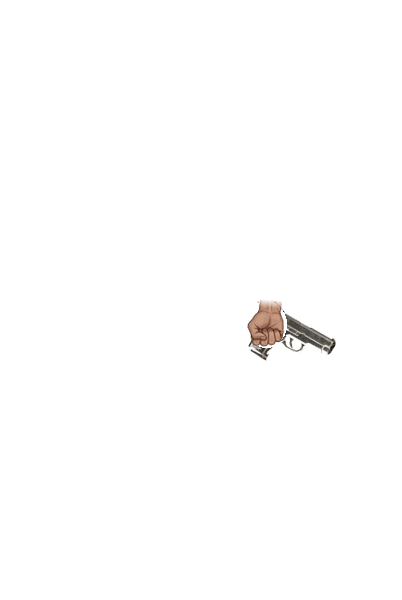
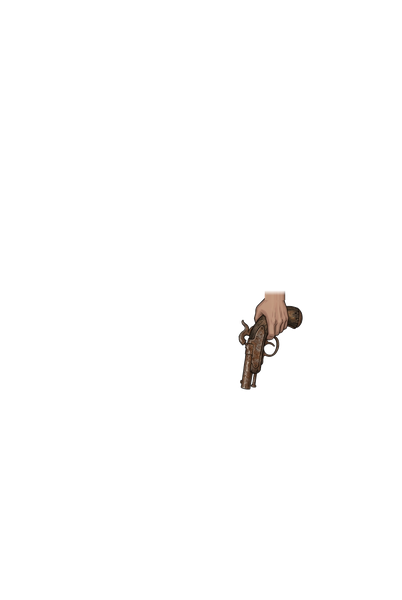
Award rusty pistol on seventh login day

Changed region(s): [[0.597, 0.48, 0.8358, 0.66]]

diff --git a/src/game/reducer.ts b/src/game/reducer.ts
@@ -30,6 +30,8 @@ import { CLAN_CREATE_GOLD,
   WEAPON_MAX_LEVEL,
   DAILY_QUESTS,
   normalizeWeapon,
+  STARTER_WEAPON,
+  getWeapon,
   DEFAULT_STATS,
 } from './constants';
 import {
@@ -150,9 +152,22 @@ const computeClanWarGold = (win: boolean, streak: number): number => {
   return CLAN_WAR_GOLD_LOSS;
 };
 
+// One-time migration: remove the former starter and replace it with knuckles.
+export const migrateStarterWeapon = (state: GameState): GameState => {
+  if (state.rustyPistolRewardVersion === 1) return state;
+  const stored = Array.isArray(state.storedWeapons) ? state.storedWeapons.filter(Boolean) : [];
+  const equippedOld = state.weapon?.id === 'rusty_pistol' || (!state.weapon?.id && state.weapon?.name === 'Ржавый пистолет');
+  const storedOld = stored.some((weapon) => weapon.id === 'rusty_pistol');
+  const knuckles = stored.find((weapon) => weapon.id === 'shop_knuckles');
+  const remaining = stored.filter((weapon) => weapon.id !== 'rusty_pistol' && (!equippedOld || weapon.id !== 'shop_knuckles'));
+  if (!equippedOld && storedOld && state.weapon?.id !== 'shop_knuckles' && !knuckles) remaining.push({ ...STARTER_WEAPON, mods: [] });
+  return { ...state, weapon: equippedOld ? (knuckles ?? { ...STARTER_WEAPON, mods: [] }) : state.weapon,
+    storedWeapons: remaining, rustyPistolRewardVersion: 1 };
+};
+
 export const hydrateState = (state: GameState): GameState => {
   // Normalize old saves that may lack new fields
-  let normalized: GameState = { ...normalizeMapRaids(state), casino: normalizeCasino(state.casino), bossKeys: normalizeBossKeys(state.bossKeys) };
+  let normalized: GameState = { ...normalizeMapRaids(migrateStarterWeapon(state)), casino: normalizeCasino(state.casino), bossKeys: normalizeBossKeys(state.bossKeys) };
   
   if (!normalized.inventory) {
     normalized = { ...normalized, inventory: [] };
@@ -325,7 +340,7 @@ export const hydrateState = (state: GameState): GameState => {
 
 export const gameReducer = (state: GameState, action: GameAction): GameState => {
   if (action.type !== 'HYDRATE_STATE') {
-    state = normalizeMapRaids(state);
+    state = normalizeMapRaids(migrateStarterWeapon(state));
     // Server snapshots from before the new skills also pass through this path.
     if (!state.profileSkills || state.profileSkills.weapon === undefined || state.profileSkills.heal === undefined) {
       state = { ...state, profileSkills: normalizeProfileSkills(state.profileSkills) };
@@ -832,6 +847,8 @@ export const gameReducer = (state: GameState, action: GameAction): GameState => 
       const status = loginRewardStatus(loginRewards);
       if (!status.available) return msg(state, 'Награда за сегодняшний вход уже получена.');
       const reward = LOGIN_REWARDS[status.day - 1];
+      const givePistol = status.day === 7 && state.weapon.id !== 'rusty_pistol' && !state.storedWeapons.some((weapon) => weapon.id === 'rusty_pistol');
+      const pistol = getWeapon('rusty_pistol')!;
       return {
         ...state,
         bullets: state.bullets + reward.bullets,
@@ -839,7 +856,8 @@ export const gameReducer = (state: GameState, action: GameAction): GameState => 
         matches: state.matches + reward.matches,
         medkits: state.medkits + reward.medkits,
         loginRewards: { lastClaimDate: status.today, streak: status.day },
-        lastMessage: `Награда за вход · день ${status.day}: +${reward.bullets} патронов${reward.gold ? `, +${reward.gold} припасов` : ''}${reward.matches ? `, +${reward.matches} спичек` : ''}${reward.medkits ? `, +${reward.medkits} аптечек` : ''}.`,
+        storedWeapons: givePistol ? [...state.storedWeapons, { ...pistol, mods: [] }] : state.storedWeapons,
+        lastMessage: `Награда за вход · день ${status.day}: +${reward.bullets} патронов${reward.gold ? `, +${reward.gold} припасов` : ''}${reward.matches ? `, +${reward.matches} спичек` : ''}${reward.medkits ? `, +${reward.medkits} аптечек` : ''}${givePistol ? ', ржавый пистолет' : ''}.`,
       };
     }
     case 'CLAIM_DAILY_QUEST_BONUS': {

diff --git a/backend/src/routes/progress.ts b/backend/src/routes/progress.ts
@@ -2,7 +2,7 @@ import { Router } from 'express';
 import { Prisma } from '@prisma/client';
 import { prisma } from '../prisma.js';
 import { requireVkUser } from '../vkAuth.js';
-import { applyDailyReset, createInitialState, normalizeMapRaids } from '../generated/game.js';
+import { applyDailyReset, createInitialState, normalizeMapRaids, migrateStarterWeapon } from '../generated/game.js';
 import { advanceCombat, applyCombatAction } from '../progressCombat.js';
 import { restoreEnergy } from '../progressEnergy.js';
 import { parseProgressAction } from '../progressAction.js';
@@ -41,7 +41,7 @@ progressRouter.get('/', async (_req, res) => {
     if (!coopEnabled) {
       if (hasCoopBattle(progress.state as Record<string, unknown>)) throw new CoopDisabled();
       const regenerated = restoreEnergy(progress.state as Record<string, unknown>, progress.energyUpdatedAt, new Date());
-      return res.json({ state: advanceCombat(normalizeMapRaids(regenerated.state), Date.now()), revision: progress.revision });
+      return res.json({ state: advanceCombat(normalizeMapRaids(migrateStarterWeapon(regenerated.state)), Date.now()), revision: progress.revision });
     }
     const snapshot = await prisma.$transaction(async (tx) => {
       const locked = await lockProgress(tx, vkId);
@@ -50,7 +50,7 @@ progressRouter.get('/', async (_req, res) => {
       await syncCoopBattle(tx, locked.state, vkId, now);
       const claimed = await claimCoopRewards(tx, vkId);
       const refreshed = restoreEnergy(claimed.state, locked.energyUpdatedAt, new Date(now));
-      const state = await syncCoopBattle(tx, advanceCombat(normalizeMapRaids(refreshed.state), now), vkId, now);
+      const state = await syncCoopBattle(tx, advanceCombat(normalizeMapRaids(migrateStarterWeapon(refreshed.state)), now), vkId, now);
       return { state, revision: claimed.revision };
     });
     return res.json(snapshot);
@@ -76,7 +76,7 @@ progressRouter.post('/action', async (req, res) => {
         if (current.revision !== revision) throw new ProgressConflict();
         const now = new Date();
         const regenerated = restoreEnergy(current.state, current.energyUpdatedAt, now);
-        const refreshed = applyDailyReset(regenerated.state);
+        const refreshed = applyDailyReset(migrateStarterWeapon(regenerated.state));
         const state = await applyCoopProgressAction(tx, refreshed, action, vkId, revision, now.getTime());
         await tx.$executeRaw`
           UPDATE "PlayerProgress" SET "state" = ${JSON.stringify(state)}::jsonb,
@@ -95,7 +95,7 @@ progressRouter.post('/action', async (req, res) => {
     if (current.revision !== revision) return res.status(409).json({ error: 'Сохранение изменилось. Загрузите его заново.' });
     const now = new Date();
     const regenerated = restoreEnergy(current.state as Record<string, unknown>, current.energyUpdatedAt, now);
-    const refreshed = applyDailyReset(regenerated.state);
+    const refreshed = applyDailyReset(migrateStarterWeapon(regenerated.state));
     const state = applyCombatAction(refreshed, action, now.getTime());
     const updated = await prisma.playerProgress.updateMany({
       where: { vkId, revision },

diff --git a/src/panels/LoginReward.tsx b/src/panels/LoginReward.tsx
@@ -22,6 +22,7 @@ export const LoginReward = ({ onClose }: { onClose: () => void }) => {
       return <article key={day} className={`${styles.day} ${current ? styles.current : ''} ${claimed ? styles.claimed : ''}`}>
         <small>ДЕНЬ {day}</small><strong>{claimed ? '✓' : day === 7 ? '🎁' : '📦'}</strong>
         <span><ResourceIcon name="bullets" /> {reward.bullets}</span>{reward.gold > 0 && <span><ResourceIcon name="supplies" /> {reward.gold}</span>}{reward.matches > 0 && <span><ResourceIcon name="matches" /> {reward.matches}</span>}{reward.medkits > 0 && <span><ResourceIcon name="medkits" /> {reward.medkits}</span>}
+        {day === 7 && <span>🔫 Ржавый пистолет</span>}
         {current && <em>{status.available ? 'СЕГОДНЯ' : 'ПОЛУЧЕНО'}</em>}
       </article>;
     })}</div>

diff --git a/src/game/constants.ts b/src/game/constants.ts
@@ -1,3 +1,4 @@
+import { SHOP_WEAPONS } from './shopCatalog';
 import { TUTORIAL_STEPS } from './tutorial';
 import { SHOP_CLOTHING } from './shopCatalog';
 import { InventoryItem, DailyQuest, Rarity, Weapon, WeaponMod, WeaponType, Zombie, ShelterItem, ShelterItemId, RoomSkin } from './types';
@@ -426,7 +427,7 @@ export const getWeapon = (id: string): Weapon | undefined => WEAPONS.find((w) =>
 
 // Стартовое оружие нового игрока.
 export const STARTER_WEAPON: Weapon = {
-  ...getWeapon('rusty_pistol')!,
+  ...SHOP_WEAPONS.find(({ weapon }) => weapon.id === 'shop_knuckles')!.weapon,
 };
 
 // Стартовые характеристики героя.

diff --git a/src/game/initialState.ts b/src/game/initialState.ts
@@ -37,10 +37,10 @@ export const createInitialState = (): GameState => ({
   carLevel: 1,
   currentDistrict: 'southgate',
   unlockedDistricts: ['southgate'],
-  // Полноценный стартовый ствол: раньше тут был объект без id/icon/type/ammo,
-  // из-за чего боевая математика не знала дальность, точность и боезапас.
+  // Стартовое оружие — кастет.
   weapon: { ...STARTER_WEAPON },
   storedWeapons: [],
+  rustyPistolRewardVersion: 1,
   equipmentIds: [],
   inventory: [],
   craftingRecipes: ['repair_kit', 'medkit_bundle'],

diff --git a/backend/scripts/progress-engine.ts b/backend/scripts/progress-engine.ts
@@ -1,6 +1,6 @@
 // Bundled for Node during backend build; the game rules have a single source.
 export { createInitialState } from '../../src/game/initialState';
-export { gameReducer, applyDailyReset } from '../../src/game/reducer';
+export { gameReducer, applyDailyReset, migrateStarterWeapon } from '../../src/game/reducer';
 export { ENERGY_TICK_MS } from '../../src/game/constants';
 export { SKILL_DEFS } from '../../src/game/profileSkills';
 export { BOSS_SKILLS } from '../../src/game/survival';

diff --git a/src/game/types.ts b/src/game/types.ts
@@ -457,6 +457,7 @@ export interface GameState {
   unlockedRooms: string[];
   weapon: Weapon;
   storedWeapons: Weapon[]; // купленное и снятое оружие с сохранением прочности
+  rustyPistolRewardVersion?: number;
   equipmentIds: string[];
   inventory: InventorySlot[];
   craftingRecipes: string[];
